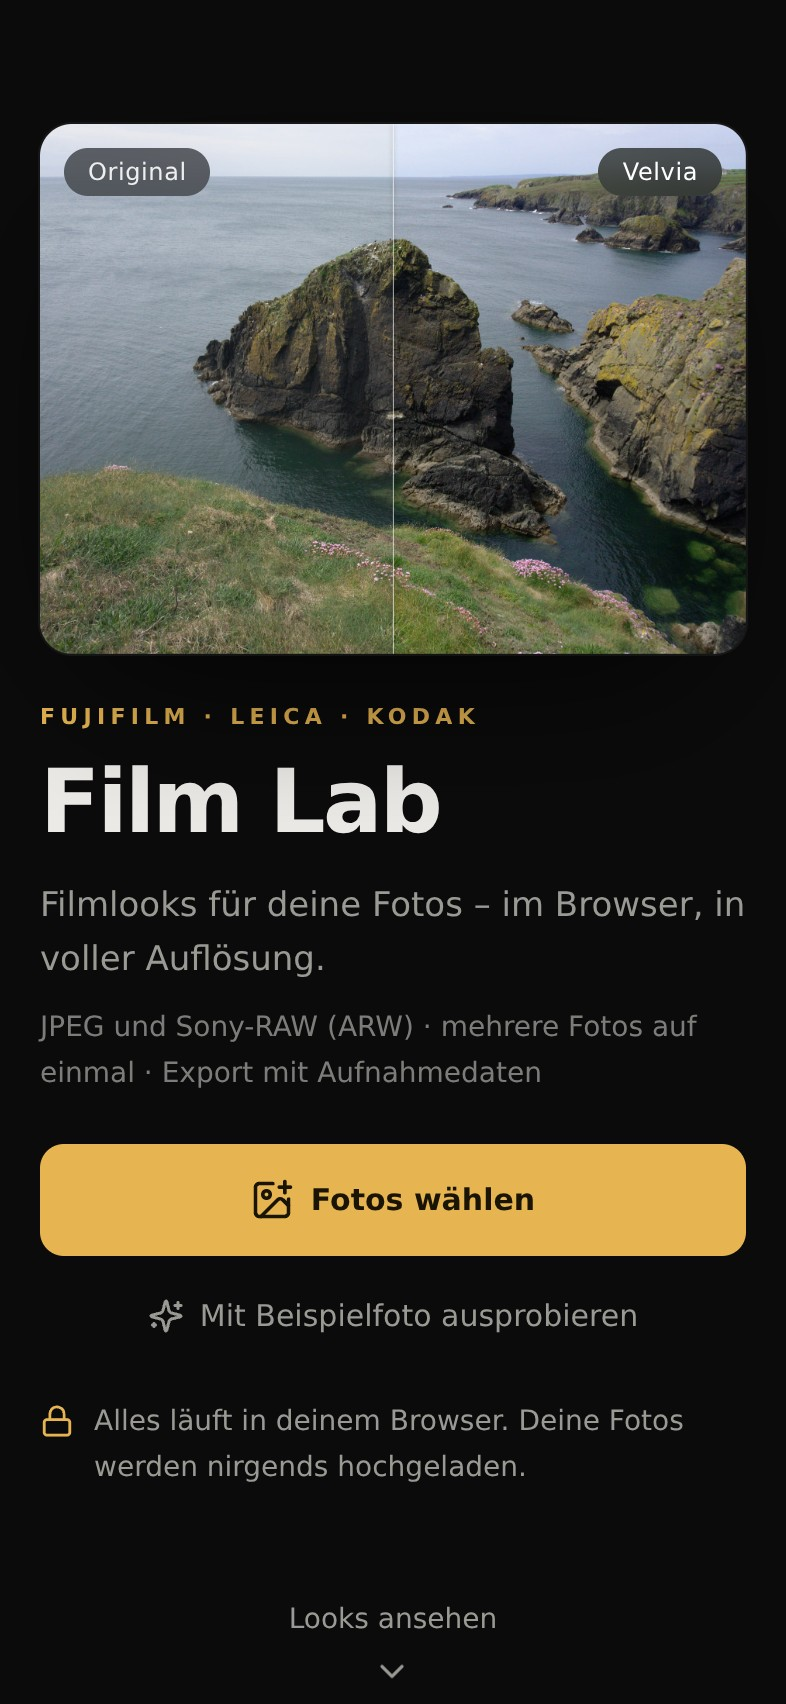
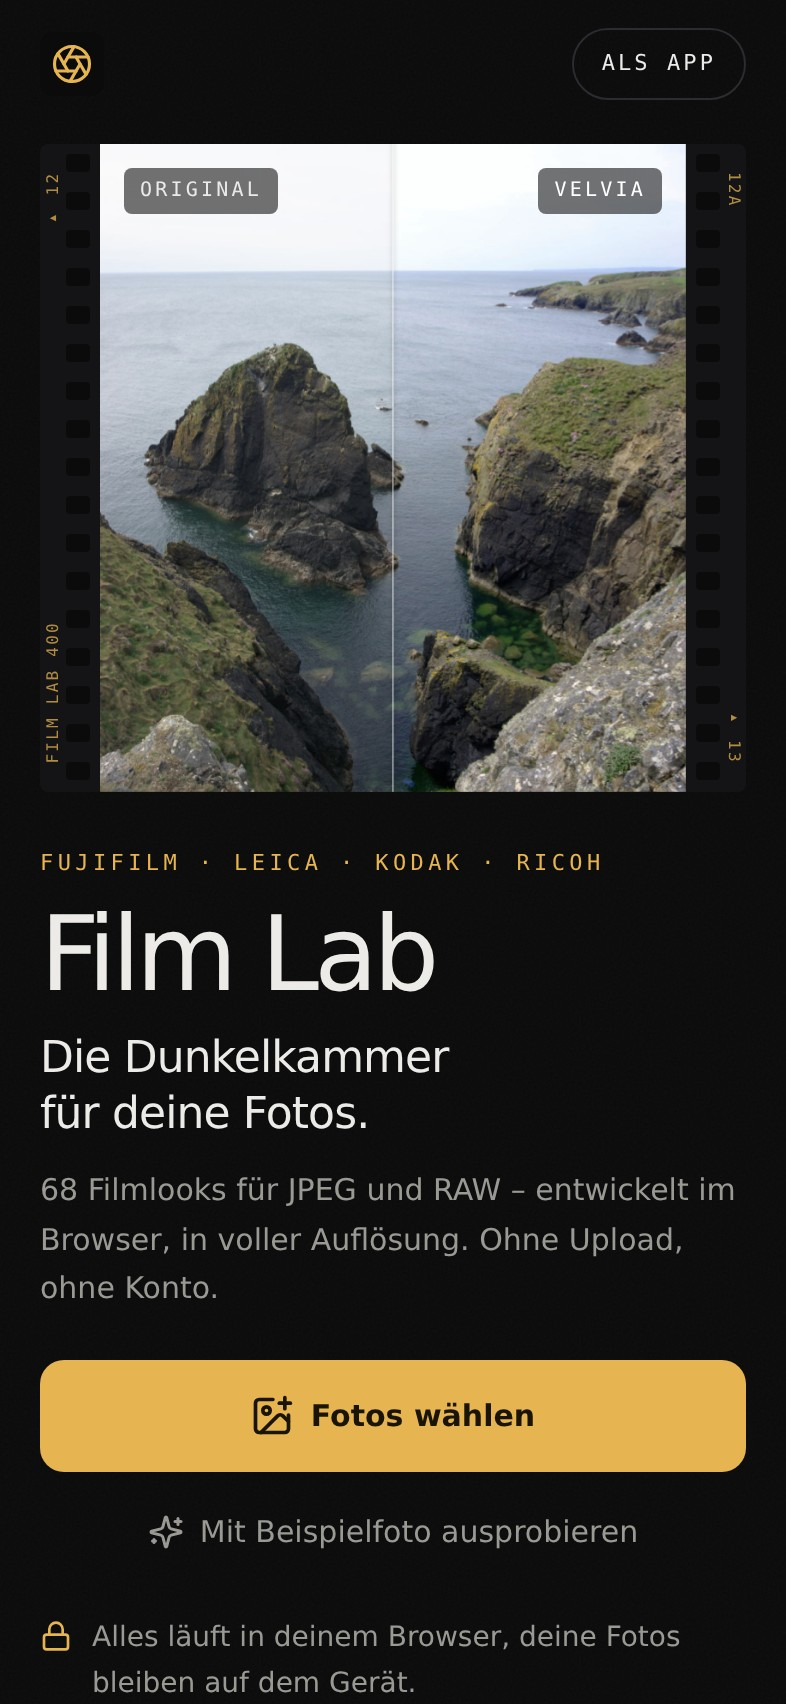
Lizenztexte erreichbar: Link auf der Startseite, Service Worker ersetzt /licenses.txt nicht mehr
- Workbox: navigateFallbackDenylist für Pfade mit Dateiendung. Bisher lieferte der Service Worker
  für /licenses.txt index.html, und die Startseite übernahm die Adresse.
- nginx: charset utf-8, sonst zeigt der Browser licenses.txt als windows-1252 („â€““ statt „–“).
- Fuß der Startseite: Link „Lizenzen der verwendeten Software“; pwa-test prüft Link und Aufruf.
- README: neue Startseiten-Bilder, „Jetzt hinzufügen“ beschrieben.

diff --git a/src/ui/StartView.tsx b/src/ui/StartView.tsx
@@ -179,6 +179,11 @@ export function StartView({ onPick }: { onPick: () => void }) {
           <div className={`${SPALTE} flex flex-col gap-1.5 border-t border-line pt-8 font-mono text-[11px] leading-relaxed text-dim`}>
             <p>{TRADEMARK_NOTE}</p>
             <p>Keine Cookies, kein Tracking. Rezepte und LUTs bleiben im Speicher dieses Browsers.</p>
+            <p>
+              <a href={`${BASE}licenses.txt`} className="underline decoration-line underline-offset-4 transition-colors hover:text-fg">
+                Lizenzen der verwendeten Software
+              </a>
+            </p>
           </div>
         </footer>
 

diff --git a/vite.config.ts b/vite.config.ts
@@ -31,6 +31,9 @@ export default defineConfig({
         // libraw.wasm hat 1,4 MB, der Rest bleibt darunter.
         maximumFileSizeToCacheInBytes: 6 * 1024 * 1024,
         navigateFallback: 'index.html',
+        // Dateien mit Endung (z. B. /licenses.txt) nicht durch die Seite ersetzen: Sonst liefert der Service Worker für
+        // jeden Aufruf außerhalb des Precache index.html, und die Startseite übernimmt die Adresse.
+        navigateFallbackDenylist: [/\/[^/?]+\.[^/?]+$/],
       },
       manifest: {
         id: './',

diff --git a/README.md b/README.md
@@ -17,7 +17,7 @@
 - **100-%-Lupe, Gesten, Tastenkürzel.** Die Lupe rechnet den Ausschnitt wie der Export, mit Korn und Schärfe. Bedienung am Handy per Wischen, Halten und Doppeltipp, am PC per Tastatur und Mausrad.
 - **JPEG, PNG, HEIC und Sony-ARW.** RAW-Dateien entwickelt Film Lab im Browser (LibRaw als WebAssembly) und korrigiert auf Wunsch Verzeichnung und Farbsäume wie die Kamera (Korrekturdaten aus der ARW; Schalter unter „Anpassen“, ab Werk aus). Mehrere Fotos auf einmal, ein Look lässt sich auf alle übertragen.
 - **Export in voller Auflösung** als JPEG (Qualität 92) mit den Aufnahmedaten (EXIF) der Quelle. Mehrere Fotos kommen am PC als ZIP, am iPhone über das Teilen-Menü.
-- **Als App installieren, offline nutzen.** Film Lab ist eine PWA: Nach dem ersten Besuch läuft es auch ohne Netz.
+- **Als App installieren, offline nutzen.** Film Lab ist eine PWA: Nach dem ersten Besuch läuft es auch ohne Netz. „Jetzt hinzufügen“ auf der Startseite öffnet in Chrome, Edge und unter Android den Installationsdialog des Browsers. Am iPhone zeigt es die Schritte in Safari (••• → Teilen → Zum Home-Bildschirm), weil eine Webseite das dort nicht selbst auslösen kann.
 
 ### Bedienung
 
